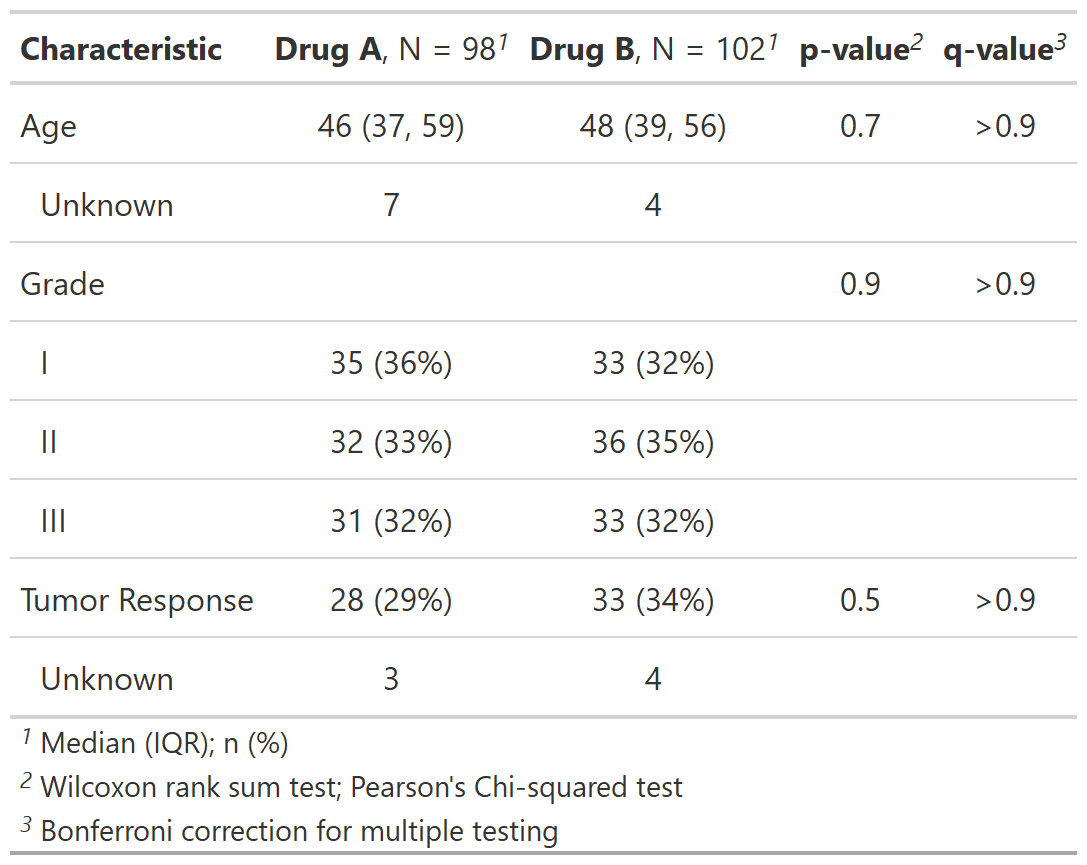
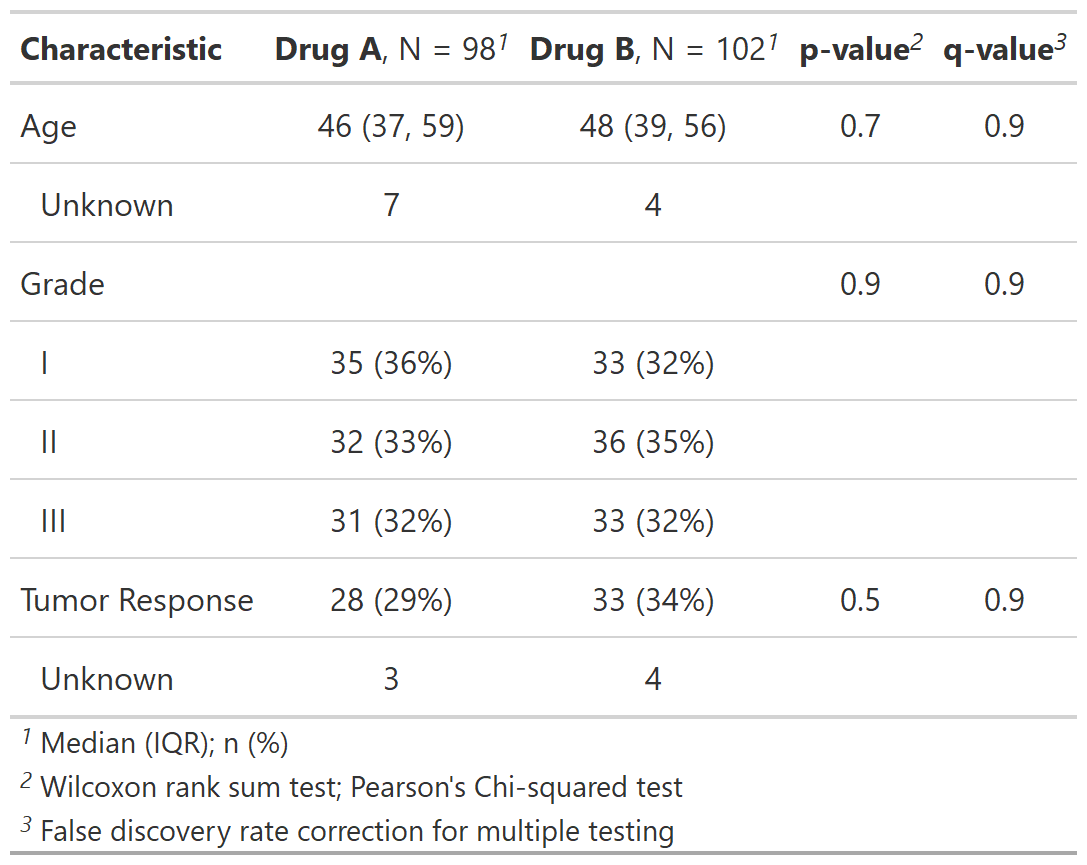
updates

diff --git a/index.html b/index.html
@@ -4,7 +4,7 @@
     <title>Reporting Research Study Results with {gtsummary}</title>
     <meta charset="utf-8" />
     <meta name="author" content="Daniel D. Sjoberg" />
-    <meta name="date" content="2021-11-16" />
+    <meta name="date" content="2022-04-27" />
     <script src="libs/header-attrs/header-attrs.js"></script>
     <script src="libs/freezeframe/freezeframe.min.js"></script>
     <script src="libs/xaringanExtra-freezeframe/freezeframe-init.js"></script>
@@ -214,7 +214,7 @@ tbl_summary_2 &lt;-  sm_trial %&gt;%
 
 
 
-.medium[
+.small[
 - `by`: specifies a column variable for cross-tabulation
 
 - `type`: specifies the summary type 
@@ -262,9 +262,9 @@ tbl_summary_3a &lt;-
   sm_trial %&gt;%
   tbl_summary(
     by = trt
-    ) %&gt;% 
+  ) %&gt;% 
   add_p() %&gt;% 
-  add_q(method = "bonferroni")  
+  add_q(method = "fdr")
 ```
 
 
@@ -658,9 +658,8 @@ m1_tbl_2 &lt;-
 # Supported models in tbl_regression()
 
 .xlarge[
-`stats::lm()`, `stats::glm()`, `stats::aov()`, `ordinal::clm()`, `ordinal::clmm()`, `survival::coxph()`, `survival::survreg()`, `survival::clogit()`, `lme4::lmer()`, `lme4::glmer()`, `lme4::glmer.nb()`, `brms::brm()`, `geepack::geeglm()`, `gam::gam()`, `mgcv::gam()`, `nnet::multinom()`, `survey::svyglm()`, `survey::svycoxph()`, `survey::svyolr()`, `MASS::polr()`, `MASS::glm.nb()`, `mice::mira`, `lavaan::lavaan()`, `cmprsk::crr()`, `stats::nls()`, `lfe::felm()`, `rstanarm::stan_glm()`, `VGAM::vglm()`, and more!
+`stats::lm()`, `stats::glm()`, `stats::aov()`, `ordinal::clm()`, `ordinal::clmm()`, `survival::coxph()`, `survival::survreg()`, `survival::clogit()`, `lme4::lmer()`, `lme4::glmer()`, `lme4::glmer.nb()`, `brms::brm()`, `geepack::geeglm()`, `gam::gam()`, `glmmTMB::glmmTMB()`, `mgcv::gam()`, `nnet::multinom()`, `survey::svyglm()`, `survey::svycoxph()`, `survey::svyolr()`, `MASS::polr()`, `MASS::glm.nb()`, `mice::mira`, `lavaan::lavaan()`, `stats::nls()`, `lfe::felm()`, `rstanarm::stan_glm()`, `VGAM::vglm()`, `cmprsk::crr()`, `tidycmprsk::crr()`, `plm::plm()`
 ]
-
 
 .large[**Custom tidiers** can be written and passed to `tbl_regression()` using the `tidy_fun=` argument.]
 
@@ -1220,7 +1219,7 @@ tbl$table_styling
 
 ```
 ## $header
-## # A tibble: 12 × 7
+## # A tibble: 12 × 11
 ##    column     hide  align interpret_label label interpret_spann… spanning_header
 ##    &lt;chr&gt;      &lt;lgl&gt; &lt;chr&gt; &lt;chr&gt;           &lt;chr&gt; &lt;chr&gt;            &lt;chr&gt;          
 ##  1 variable   TRUE  cent… gt::md          vari… gt::md           &lt;NA&gt;           
@@ -1235,6 +1234,8 @@ tbl$table_styling
 ## 10 statistic  TRUE  cent… gt::md          stat… gt::md           &lt;NA&gt;           
 ## 11 p.value    FALSE cent… gt::md          **p-… gt::md           &lt;NA&gt;           
 ## 12 alternati… TRUE  cent… gt::md          alte… gt::md           &lt;NA&gt;           
+## # … with 4 more variables: modify_stat_N &lt;int&gt;, modify_stat_n &lt;int&gt;,
+## #   modify_stat_p &lt;dbl&gt;, modify_stat_level &lt;chr&gt;
 ## 
 ## $footnote
 ## # A tibble: 3 × 4

diff --git a/custom.css b/custom.css
@@ -1,0 +1,25 @@
+.xxlarge { font-size: 170% }
+.xlarge { font-size: 160% }
+.large { font-size: 130% }
+.medium{ font-size: 110% }
+.small { font-size: 70% }
+.tiny { font-size: 40% }
+
+
+/* Two-column layout */
+.left-column {
+  width: 25%;
+  height: 92%;
+  float: left;
+}
+.left-column h2, .left-column h3 {
+  color: #0078bf99;
+}
+.left-column h2:last-of-type, .left-column h3:last-child {
+  color: #0078bf;
+}
+.right-column {
+  width: 70%;
+  float: right;
+  padding-top: 1em;
+}

diff --git a/README.md b/README.md
@@ -1,6 +1,6 @@
 # gtsummary-Columbia-Computing-Club
 
-Presented April 26, 2022
+Presented April 27, 2022
 
 Reporting Research Study Results with {gtsummary}
 https://www.danieldsjoberg.com/gtsummary-Columbia-Computing-Club/
